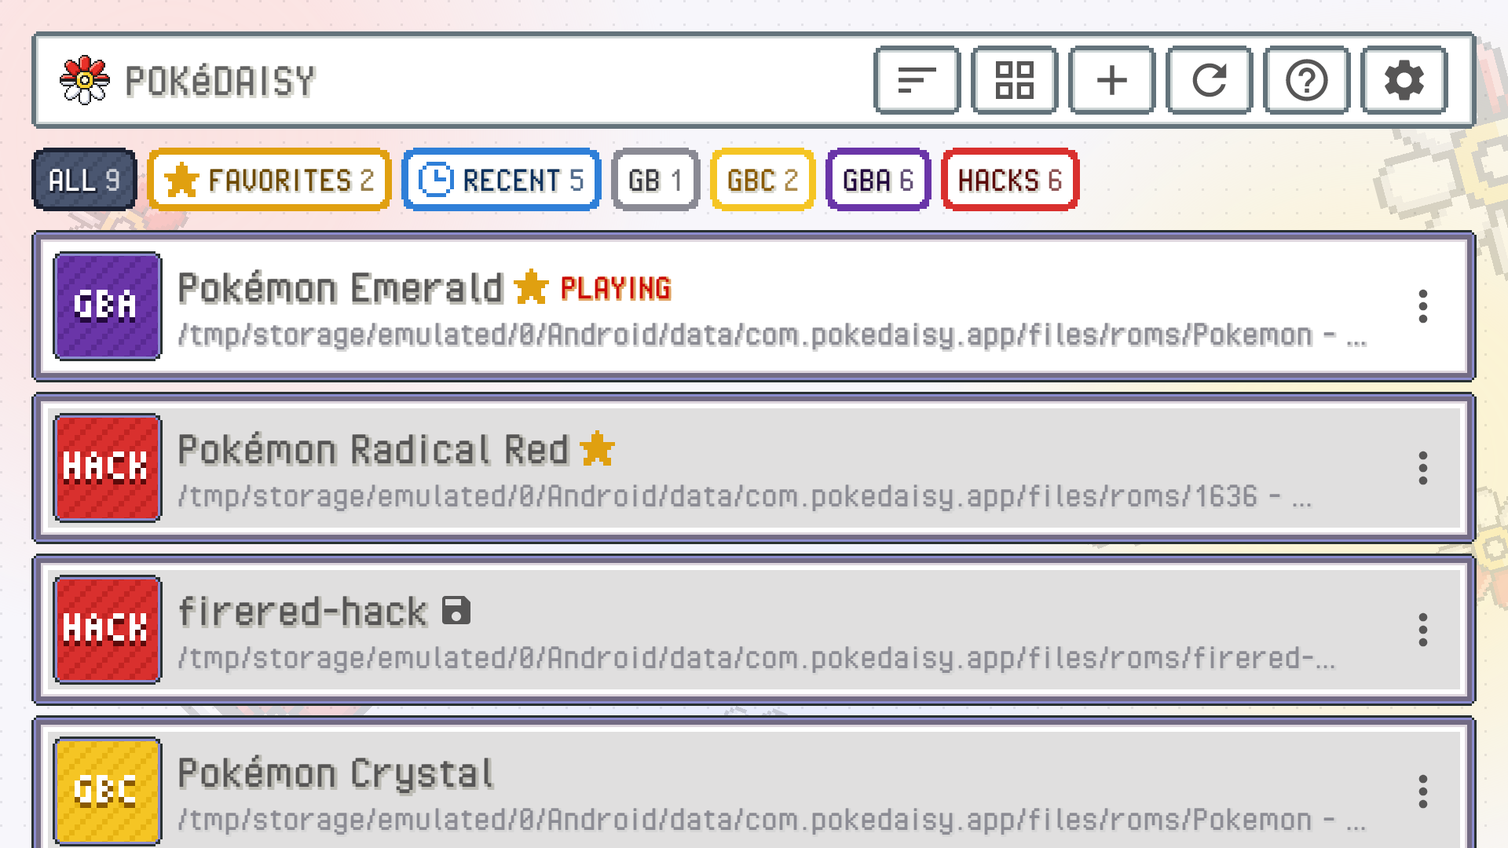
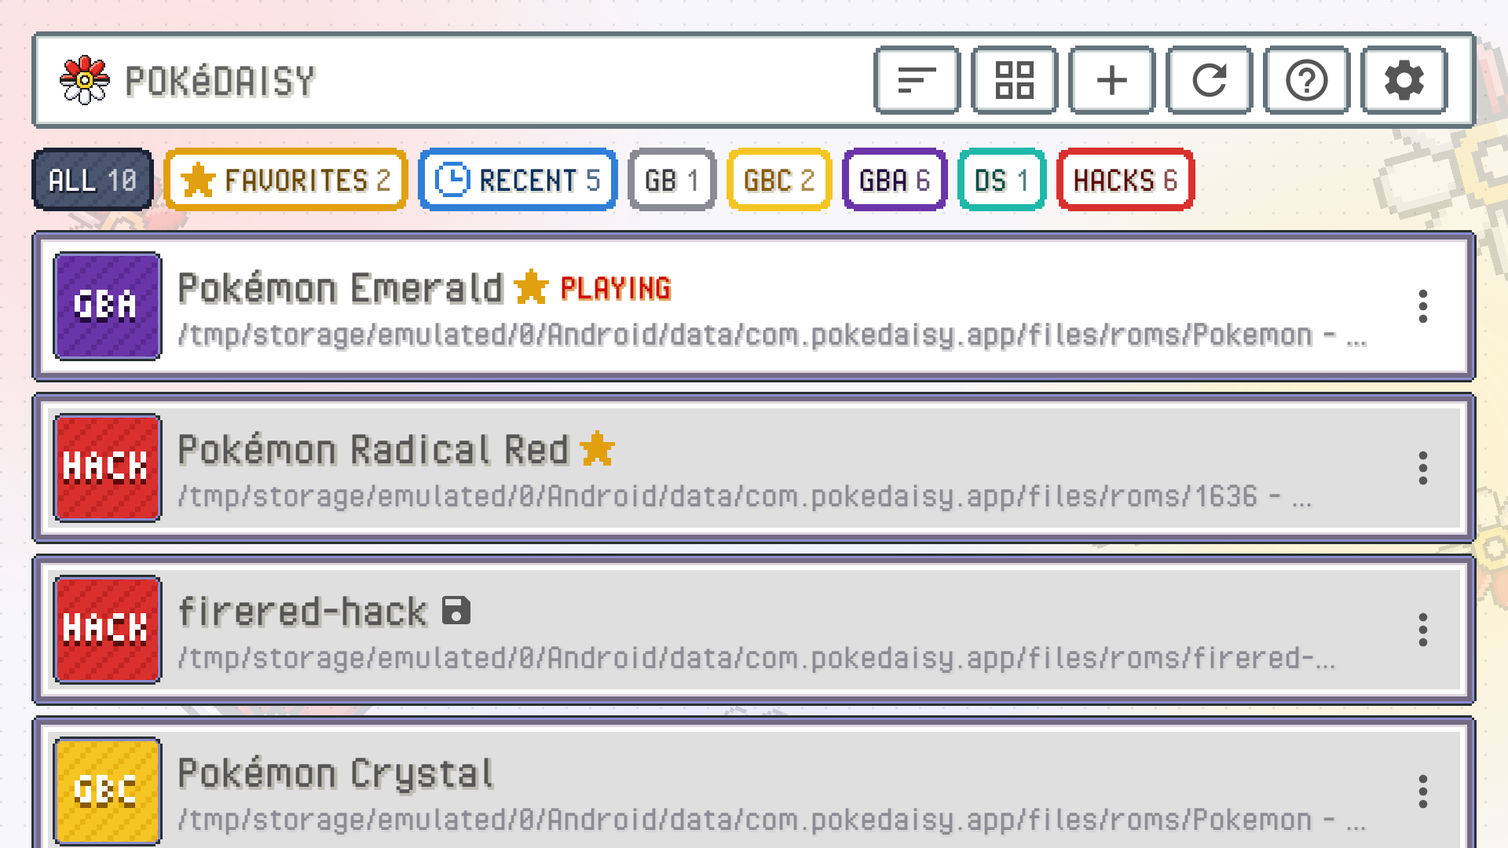
DS games for every player: the flag gone, the site's ROM check, the manual and the credits
- TelemetrySampler.NDS_SUPPORT is a constant now, like the Game Boy's switch, and the
  carts the companion reads are one table (NDS_GAMES); FeatureFlags.nds and its
  BuildConfig field are gone. The manifest's VIEW filter takes .nds.
- Website: the ROM check reads a DS cart's header (code 0x0C, revision 0x1E) against
  compat.json's new `ds` list, as the app does; .nds in the picker and the zip reader. The
  matrix files the GB / GBC rows under GAME BOY (the GBC ones read ROM HACK) and has a DS
  filter; the versions page lists the DS carts. Consoles, the trademark line and "runs on
  mGBA and melonDS" on every page; the games lead is current; og.png re-rendered.
- README: DS in the intro, the Supported games table (Platinum, HeartGold / SoulSilver),
  its notes (one screen shows the top screen only for now), EXPAND, file types; the
  credits gain melonDS and its bundled pieces, Atkinson Hyperlegible, the shaders and the
  decomps used. NOTICE: the decomps behind the Gen 2 / DS decoders, Nintendo DS.
- Manual: DS in welcome, supported games, the library's DS view and NDS cover, and a
  "DS games" section on Screens and devices; the library shots show the DS pill.

Changed region(s): [[0.0625, 0.1528, 0.8125, 0.275]]

diff --git a/ui-preview/src/render/Main.kt b/ui-preview/src/render/Main.kt
@@ -736,15 +736,13 @@ fun favoriteLibrary() {
 }
 
 /**
- * [favoriteLibrary] with a game on every console (Yellow, Crystal, a Crystal hack, Platinum - DS turned on), so every quick
+ * [favoriteLibrary] with a game on every console (Yellow, Crystal, a Crystal hack, Platinum), so every quick
  * view has a pill, and a play history (Emerald last, then Crystal, Unbound, Yellow) for RECENT; [view] open.
  */
-fun platformLibrary(view: com.pokedaisy.app.LibraryView = com.pokedaisy.app.LibraryView.ALL, ds: Boolean = true) {
+fun platformLibrary(view: com.pokedaisy.app.LibraryView = com.pokedaisy.app.LibraryView.ALL) {
     favoriteLibrary()
     val ctx = android.content.Context()
     val prefs = Prefs(ctx)
-    // DS games behind their flag (FeatureFlags.nds): the manual's shots leave them out while it's off for players.
-    if (ds) for (dir in listOfNotNull(ctx.filesDir, ctx.getExternalFilesDir(null))) File(dir, "features").apply { mkdirs() }.resolve("nds").writeText("")
     val roms = File(ctx.filesDir, "roms")
     val extra = mapOf(
         "Pokemon - Yellow Version (USA, Europe).gb" to Triple("Pokémon Yellow", "GB", "GB"),
@@ -849,7 +847,6 @@ fun activity(expandIntro: Boolean = false, start: Boolean = false, make: () -> a
     prefs.cheatsEnabled = false
     prefs.touchControlsStyle = com.pokedaisy.app.companion.TouchControlsStyle()
     prefs.portraitCompanionUnderGame = false
-    for (dir in listOfNotNull(ctx.filesDir, ctx.getExternalFilesDir(null))) File(dir, "features/nds").delete()
     prefs.libraryView = com.pokedaisy.app.LibraryView.ALL.id
     prefs.lastRomPath = File(roms, names[0]).absolutePath
     names.take(3).reversed().forEach { prefs.pushRecentRom(File(roms, it).absolutePath) }
@@ -1537,9 +1534,6 @@ fun main(args: Array<String>) {
         Shot("library-views-gba", tw, th, td, activity { platformLibrary(com.pokedaisy.app.LibraryView.GBA); LibraryActivity() }),
         Shot("library-views-ds", tw, th, td, activity { platformLibrary(com.pokedaisy.app.LibraryView.DS); LibraryActivity() }),
         Shot("library-views-hacks", tw, th, td, activity { platformLibrary(com.pokedaisy.app.LibraryView.HACKS); LibraryActivity() }),
-        // The manual's (DocsShots): no DS game, as players have it while DS is behind its flag.
-        Shot("library-views-nods", tw, th, td, activity { platformLibrary(ds = false); LibraryActivity() }),
-        Shot("library-views-gbc-nods", tw, th, td, activity { platformLibrary(com.pokedaisy.app.LibraryView.GBC, ds = false); LibraryActivity() }),
         Shot("library-views-phone", 1080, 2400, 2.625f, activity { platformLibrary(com.pokedaisy.app.LibraryView.GBA); LibraryActivity() }) {
             mainClock.advanceTimeBy(500)   // the open pill scrolled into view
         },

diff --git a/app/src/test/kotlin/com/pokedaisy/app/SiteDataExportTest.kt b/app/src/test/kotlin/com/pokedaisy/app/SiteDataExportTest.kt
@@ -33,6 +33,9 @@ class SiteDataExportTest {
         "BPEJ" to "ポケットモンスター エメラルド",
     )
 
+    /** The DS carts' titles by game code ([TelemetrySampler.NDS_GAMES]). */
+    private val dsTitles = mapOf("CPUE" to "Pokémon Platinum", "IPKE" to "Pokémon HeartGold", "IPGE" to "Pokémon SoulSilver")
+
     /** The base game of each hack that has a game code of its own ([TelemetrySampler.HACK_GAME_CODES]). */
     private val hackCodeBases = mapOf(TelemetrySampler.ULTRA_VIOLET_CODE to "BPRE")
 
@@ -84,7 +87,8 @@ class SiteDataExportTest {
             .sortedWith(compareBy({ it.second }, { it.third }))
             .partition { it.second in inProgressGames }
         val gameBoy = if (TelemetrySampler.GAME_BOY_SUPPORT) TelemetrySampler.SUPPORTED_GB_SHA1S.sorted() else emptyList()
-        // DS carts stay off the site while DS is behind its feature flag (the site lists only what the APK plays).
+        val ds = if (TelemetrySampler.NDS_SUPPORT) TelemetrySampler.NDS_GAMES.toSortedMap().toList() else emptyList()
+        // DS carts go by their header's code and revision (`ds`), as the app takes them, not by hash.
         val titles = GameTitles.BY_SHA1.filterKeys { it !in hackSha1s && it !in gameBoy && it !in GameTitles.NDS_SHA1S }.toSortedMap()
 
         return buildString {
@@ -117,6 +121,9 @@ class SiteDataExportTest {
             append("  \"gameBoy\": [\n")
             append(gameBoy.joinToString(",\n") { "    {\"sha1\": ${q(it)}, \"title\": ${q(GameTitles.BY_SHA1.getValue(it))}}" })
             append("\n  ],\n")
+            append("  \"ds\": [\n")
+            append(ds.joinToString(",\n") { (code, rev) -> "    {\"code\": ${q(code)}, \"rev\": $rev, \"title\": ${q(dsTitles.getValue(code))}}" })
+            append("\n  ],\n")
             append("  \"titles\": {\n")
             append(titles.entries.joinToString(",\n") { (sha1, title) -> "    ${q(sha1)}: ${q(title)}" })
             append("\n  },\n")
@@ -147,6 +154,11 @@ class SiteDataExportTest {
         assertTrue("no *_V<version>_SHA1 constant for $missing", missing.isEmpty())
         assertEquals("v2.2.1-EX", hackVersions[TelemetrySampler.EMERALD_ROGUE_V2_2_1_EX_SHA1])
         assertEquals("v1.2b", hackVersions[TelemetrySampler.SOULGOLD_V1_2B_SHA1])
+    }
+
+    @Test
+    fun `every DS cart has a title`() {
+        assertEquals(TelemetrySampler.NDS_GAMES.keys, dsTitles.keys)
     }
 
     @Test

diff --git a/website/src/lib/compat.js b/website/src/lib/compat.js
@@ -5,12 +5,18 @@
 // Pure functions over bytes: the page reads the file, nothing is uploaded.
 
 const GB_LOGO_START = [0xce, 0xed, 0x66, 0x66];
-export const ROM_EXTENSIONS = ['.gba', '.gb', '.gbc'];
+export const ROM_EXTENSIONS = ['.gba', '.gb', '.gbc', '.nds'];
 
-/** What the cart header says: platform, game code (0xAC) and revision (0xBC) for a GBA ROM. */
+/**
+ * What the cart header says: platform, game code (0xAC) and revision (0xBC) for a GBA ROM, game code (0x0C) and
+ * revision (0x1E) for a DS one (its logo's checksum 0xCF56 at 0x15C: RomIdentity.isNds). Checked in the app's order.
+ */
 export function readHeader(bytes) {
   if (bytes.length >= 0x108 && GB_LOGO_START.every((b, i) => bytes[0x104 + i] === b)) {
     return { platform: 'gb' };
+  }
+  if (bytes.length >= 0x160 && bytes[0x15c] === 0x56 && bytes[0x15d] === 0xcf) {
+    return { platform: 'nds', code: String.fromCharCode(...bytes.subarray(0x0c, 0x10)), rev: bytes[0x1e] };
   }
   if (bytes.length < 0xc0) return { platform: null };
   const code = String.fromCharCode(...bytes.subarray(0xac, 0xb0));
@@ -47,6 +53,14 @@ export function verdict(data, { platform, code, rev, size, sha1, retailOf }) {
       ? { status: 'supported', title: hit.title, family: 'Game Boy' }
       : { status: 'unsupported', reason: 'gb' };
   }
+  if (platform === 'nds') {
+    // By the header's code and revision, as the app takes a DS cart (CompanionSupport.isSupported).
+    const hit = (data.ds ?? []).find((g) => g.code === code);
+    if (!hit) return { status: 'unsupported', reason: 'ds' };
+    return hit.rev === rev
+      ? { status: 'supported', title: hit.title, family: 'Nintendo DS' }
+      : { status: 'unsupported', reason: 'revision', base: hit.title };
+  }
   if (platform !== 'gba') return { status: 'unsupported', reason: 'not-a-rom' };
 
   const retail = data.retail.find((r) => r.code === code);
@@ -73,7 +87,7 @@ export function verdict(data, { platform, code, rev, size, sha1, retailOf }) {
 }
 
 /**
- * The ROM inside a .zip (the first .gba / .gb / .gbc entry), unpacked with the browser's
+ * The ROM inside a .zip (the first .gba / .gb / .gbc / .nds entry), unpacked with the browser's
  * own DecompressionStream. Returns { name, bytes } or null when there's none.
  */
 export async function unzipRom(zip) {

diff --git a/app/src/main/kotlin/com/pokedaisy/app/companion/data/Poller.kt b/app/src/main/kotlin/com/pokedaisy/app/companion/data/Poller.kt
@@ -1003,17 +1003,19 @@ class TelemetrySampler {
         const val GAME_BOY_SUPPORT = true
 
         /**
-         * Nintendo DS (Platinum first, on melonDS): the library, folder scan, frontend launch and archives take .nds
-         * and a known cart is read by the Gen 4 reader. Set from [com.pokedaisy.app.FeatureFlags.nds] at process and
-         * library start; off, a DS cart is never listed.
+         * Nintendo DS (on melonDS): the library, folder scan, frontend launch and archives take .nds and a known cart
+         * ([NDS_GAMES]) is read by the Gen 4 reader. False turns all of it off again (then drop the manifest's .nds
+         * VIEW pattern too): a DS cart is then never listed.
          */
-        @Volatile var NDS_SUPPORT = false
+        const val NDS_SUPPORT = true
 
-        /** A DS cart the companion reads, by its header's game code and revision (0x0C / 0x1E): Platinum USA rev 1,
-         * HeartGold / SoulSilver USA (rev 0, their only one). [detectDs] and the library's
-         * [com.pokedaisy.app.CompanionSupport] both ask this. */
-        fun ndsSupported(code: String?, revision: Int?): Boolean = NDS_SUPPORT &&
-            (code == "CPUE" && revision == 1 || (code == "IPKE" || code == "IPGE") && revision == 0)
+        /** The DS carts the companion reads, by their header's game code (0x0C) and revision (0x1E): Platinum USA rev 1,
+         * HeartGold / SoulSilver USA (rev 0, their only one). The website's ROM check gets them through compat.json. */
+        val NDS_GAMES = mapOf("CPUE" to 1, "IPKE" to 0, "IPGE" to 0)
+
+        /** [detectDs] and the library's [com.pokedaisy.app.CompanionSupport] both ask this. */
+        fun ndsSupported(code: String?, revision: Int?): Boolean =
+            NDS_SUPPORT && revision != null && NDS_GAMES[code] == revision
 
         /** Every hack detect() has RAM addresses for - the >16 MB ones it
          * hashes, plus Seaglass, Emerald Kaizo, Emerald Legacy, Orange Islands, Recharged Yellow / Emerald and Ultra Violet (16 MB). [CompanionSupport] checks imports against it. */

diff --git a/website/test/compat.test.js b/website/test/compat.test.js
@@ -51,6 +51,24 @@ test('other retail games: revisions and size', () => {
   assert.equal(v('AGBJ', 0, 4 * MB).reason, 'other-game');
 });
 
+function nds(code, rev = 0) {
+  const b = new Uint8Array(0x200);
+  b.set([...code].map((c) => c.charCodeAt(0)), 0x0c);
+  b[0x1e] = rev;
+  b.set([0x56, 0xcf], 0x15c);
+  return b;
+}
+
+test('DS: Platinum rev 1, HeartGold / SoulSilver, by the header', () => {
+  assert.deepEqual(readHeader(nds('CPUE', 1)), { platform: 'nds', code: 'CPUE', rev: 1 });
+  const ds = (code, rev) => verdict(data, { ...readHeader(nds(code, rev)), size: 128 * MB, sha1: '0'.repeat(40) });
+  assert.deepEqual(ds('CPUE', 1), { status: 'supported', title: 'Pokémon Platinum', family: 'Nintendo DS' });
+  assert.deepEqual(ds('CPUE', 0), { status: 'unsupported', reason: 'revision', base: 'Pokémon Platinum' });
+  assert.equal(ds('IPKE', 0).title, 'Pokémon HeartGold');
+  assert.equal(ds('IPGE', 0).title, 'Pokémon SoulSilver');
+  assert.equal(ds('ADAE', 0).reason, 'ds');
+});
+
 test('Game Boy: Yellow only', () => {
   assert.equal(verdict(data, { platform: 'gb', sha1: 'cc7d03262ebfaf2f06772c1a480c7d9d5f4a38e1' }).title, 'Pokémon Yellow');
   assert.equal(verdict(data, { platform: 'gb', sha1: '0'.repeat(40) }).reason, 'gb');

diff --git a/ui-preview/src/render/DocsShots.kt b/ui-preview/src/render/DocsShots.kt
@@ -253,7 +253,7 @@ fun docsShots(all: List<Shot>, bw: Int, bh: Int, bd: Float, tw: Int, th: Int, td
     val help = installDocsSource()
     // Main.kt's top-screen shots the docs reuse: its name -> the docs' name.
     val reuse = linkedMapOf(
-        "library-views-nods" to "library-list", "library-views-gbc-nods" to "library-views", "library-grid" to "library-grid", "library-list-menu" to "library-menu",
+        "library-views" to "library-list", "library-views-gbc" to "library-views", "library-grid" to "library-grid", "library-list-menu" to "library-menu",
         "library-info" to "library-info", "library-sort" to "library-sort", "library-cover-picker" to "library-cover-picker",
         "library-update" to "library-update", "library-list-phone" to "phone-library",
         "setup-roms" to "setup-roms", "setup-saves" to "setup-saves", "setup-buttons" to "setup-buttons", "setup-covers" to "setup-covers",

diff --git a/app/src/main/kotlin/com/pokedaisy/app/FeatureFlags.kt b/app/src/main/kotlin/com/pokedaisy/app/FeatureFlags.kt
@@ -24,13 +24,6 @@ object FeatureFlags {
      */
     fun screenScraper(context: Context): Boolean = BuildConfig.FEATURE_SCREENSCRAPER || marker(context, "screenscraper")
 
-    /**
-     * Nintendo DS games (nds/pk_nds.cpp, melonDS): `.nds` files in the library and the frontend entry, played on the
-     * DS core. Off until DS support is ready for players; marker `nds`. Read into [TelemetrySampler.NDS_SUPPORT] when
-     * the process and the library start.
-     */
-    fun nds(context: Context): Boolean = BuildConfig.FEATURE_NDS || marker(context, "nds")
-
     private fun marker(context: Context, name: String): Boolean =
         runCatching { File(File(context.getExternalFilesDir(null) ?: context.filesDir, "features"), name).isFile }.getOrDefault(false)
 }

diff --git a/app/src/main/kotlin/com/pokedaisy/app/PokeDaisyApp.kt b/app/src/main/kotlin/com/pokedaisy/app/PokeDaisyApp.kt
@@ -12,7 +12,6 @@ class PokeDaisyApp : Application() {
         prefs.appOpenCount = (prefs.appOpenCount + 1).coerceAtMost(1000)
         CrashReports.apply(prefs.crashReportsEnabled)
         ScreenScraperClient.enabled = FeatureFlags.screenScraper(this)
-        com.pokedaisy.app.companion.data.TelemetrySampler.NDS_SUPPORT = FeatureFlags.nds(this)
         // LIGHT COMPANION: the player's pick, and AUTO's verdict (a device that looks weak, or whose buttons came late before).
         com.pokedaisy.app.companion.LightCompanion.mode = com.pokedaisy.app.companion.LightCompanionMode.of(prefs.lightCompanion)
         com.pokedaisy.app.companion.LightCompanion.deviceWeak = prefs.lightCompanionMeasured || DevicePerformance.looksWeak(this)

diff --git a/app/src/main/kotlin/com/pokedaisy/app/GameTitles.kt b/app/src/main/kotlin/com/pokedaisy/app/GameTitles.kt
@@ -25,7 +25,7 @@ object GameTitles {
     val BY_SHA1: Map<String, String> by lazy { RETAIL + HACKS + RETAIL_PORT_TITLES }
 
     /** Retail carts (the library's GBA / GB / GBC tag when a game has no cover: [RomCategory]). */
-    /** The DS carts [BY_SHA1] names (behind FeatureFlags.nds: the website leaves them out until DS ships). */
+    /** The DS carts [BY_SHA1] names (the website's ROM check reads DS carts by their header: compat.json's `ds`). */
     internal val NDS_SHA1S = setOf(
         "0862ec35b24de5c7e2dcb88c9eea0873110d755c", "4fcded0e2713dc03929845de631d0932ea2b5a37", "f8dc38ea20c17541a43b58c5e6d18c1732c7e582",
     )

diff --git a/app/src/main/kotlin/com/pokedaisy/app/LibraryActivity.kt b/app/src/main/kotlin/com/pokedaisy/app/LibraryActivity.kt
@@ -300,7 +300,6 @@ class LibraryActivity : ComponentActivity() {
 
         // The device's marker can change between visits (FeatureFlags): read before setup builds its steps.
         ScreenScraperClient.enabled = FeatureFlags.screenScraper(this)
-        com.pokedaisy.app.companion.data.TelemetrySampler.NDS_SUPPORT = FeatureFlags.nds(this)
         sort = LibrarySort.of(prefs.librarySort)
         quickView = LibraryView.of(prefs.libraryView)
         // The second screen (and so SWAP) is the game's media page: ScreenScraper's, off until its flag is on.

diff --git a/ui-preview/src/shims/BuildConfig.kt b/ui-preview/src/shims/BuildConfig.kt
@@ -10,6 +10,4 @@ object BuildConfig {
     const val FEATURE_SAVE_EDITOR = false
     /** Off as in a default build; the ScreenScraper shots turn it on (`withScreenScraper`). */
     @JvmField var FEATURE_SCREENSCRAPER = false
-    /** DS games (melonDS): off, as in a default build. */
-    const val FEATURE_NDS = false
 }

diff --git a/README.md b/README.md
@@ -1,6 +1,6 @@
 <div align="center">
 
-<img src="https://pokedaisy.com/og.png" alt="PokeDaisy: Game Boy, Game Boy Color and GBA player with a live companion, on two screens or one, for Pokemon games and ROM hacks, free and open source" width="100%">
+<img src="https://pokedaisy.com/og.png" alt="PokeDaisy: Game Boy, Game Boy Color, GBA and DS player with a live companion, on two screens or one, for Pokemon games and ROM hacks, free and open source" width="100%">
 
 <h3>Play your Pokemon games. See everything about them on your second screen, or right beside the game.</h3>
 
@@ -23,9 +23,9 @@
 
 </div>
 
-PokeDaisy is a Game Boy, Game Boy Color and GBA player for Android handhelds with two screens or one,
-made for Pokemon FireRed, LeafGreen, Emerald, Ruby, Sapphire, Red, Blue, Yellow, Gold, Silver, Crystal
-and popular ROM hacks of every generation. Next to the game runs a live companion that reads it as you
+PokeDaisy is a Game Boy, Game Boy Color, GBA and Nintendo DS player for Android handhelds with two screens or one,
+made for Pokemon FireRed, LeafGreen, Emerald, Ruby, Sapphire, Red, Blue, Yellow, Gold, Silver, Crystal, Platinum,
+HeartGold, SoulSilver and popular ROM hacks of every generation. Next to the game runs a live companion that reads it as you
 play: your party, your bag, the map, battle matchups, your Pokedex, and a spoiler-free guide.
 Everything is drawn in the game's own menu style.
 
@@ -35,6 +35,8 @@ Everything is drawn in the game's own menu style.
   game screen. The **quick menu**, one button away, opens your PC, flies, rides your bike or fishes, and
   **battle buttons** fight, switch or run right beside the battle.
 - **A phone and a TV**: cast or plug in a TV and the game goes on the big screen, the companion stays in your hand.
+- **DS games** (Platinum, HeartGold, SoulSilver): on a two-screen handheld the DS's touch screen goes on the bottom
+  screen, and one tap there swaps it for the companion and back. The companion also opens over the game, like on one screen.
 
 ## Devices
 
@@ -184,7 +186,8 @@ under LANGUAGE in either Settings screen. Species, move and item names and the G
   Sapphire, every language and revision, plus Unbound, Radical Red, Lazarus, SoulGold, Heart and Soul, Gaia, Odyssey,
   Amethyst 1.3.0, Glazed, Seaglass, Emerald Imperium, Emerald Rogue, Too Many Types 2, Recharged Yellow, Super Mariomon,
   Ultra Violet, FireRed Rocket Edition, Ash Gray, Ghost Grey, Elite Redux, Sword and Shield Ultimate Plus, GS Chronicles and
-  Celia's hack; on the Game Boy, Pokémon Yellow, English, and Crystal, their field only).
+  Celia's hack; on the Game Boy, Pokémon Yellow, English, and Crystal, their field only; on the DS, Platinum, HeartGold
+  and SoulSilver, their 3D overworld drawn past the screen's edges and their battles too).
   The extra strips are rebuilt every frame from the game's own map, tiles and sprites. Battles are wide too: their
   scenery runs on past the edges and the battlers, trainers and healthboxes slide in from off screen. Fog, ash and rain
   reach the screen's edges, and dark caves stay dark around Flash's light. On the title
@@ -224,7 +227,7 @@ under LANGUAGE in either Settings screen. Species, move and item names and the G
   when you last played it and whether it has a save. **X** swaps
   the screens (animated), **A** opens the game, **B** its options, **Y** Settings - a legend in the corner shows them.
   Settings > DUAL-SCREEN LAUNCHER turns it off.
-- ROMs can be plain `.gba`, `.gb` or `.gbc` files or zipped (`.zip` / `.7z`), in your ROMs folder or imported with **+**.
+- ROMs can be plain `.gba`, `.gb`, `.gbc` or `.nds` files or zipped (`.zip` / `.7z`), in your ROMs folder or imported with **+**.
 - **Refresh** rescans your ROMs folder and tells you what it found.
 - Long-press a game to:
   - **Rename** or **hide** it.
@@ -266,7 +269,7 @@ is left alone.
 
 ## Supported games
 
-Any Game Boy, Game Boy Color or GBA game plays. The companion needs one of the games below, **in the exact
+Any Game Boy, Game Boy Color, GBA or DS game plays. The companion needs one of the games below, **in the exact
 version listed** (ROM hacks are recognized by their file, so another version
 shows a "not supported" notice).
 
@@ -292,6 +295,8 @@ shows a "not supported" notice).
 | Ruby                           | ES/DE/FR/IT/JP, rev 0-1    |  ✅   | ✅  |   ◐    | ✅  |   ✅    |  ✅   |
 | Sapphire                       | USA, rev 0, 1 and 2        |  ✅   | ✅  |   ◐    | ✅  |   ✅    |  ✅   |
 | Sapphire                       | ES/DE/FR/IT/JP, rev 0-1    |  ✅   | ✅  |   ◐    | ✅  |   ✅    |  ✅   |
+| Platinum (DS)                  | USA rev 1                  |  ✅   | ✅  |   ◐    | ✅  |   ✅    |  ✅   |
+| HeartGold / SoulSilver (DS)    | USA                        |  ✅   | ✅  |   —    | ✅  |   ✅    |  ✅   |
 | Unbound                        | 2.1.1.1                    |  ✅   | ✅  |   ◐    | ✅  |   ✅    |  ✅   |
 | Unbound                        | 2.1.1.1 French             |  ✅   | ✅  |   ◐    | ✅  |   ✅    |  ✅   |
 | Radical Red                    | 4.1                        |  ✅   | ✅  |   ◐    | ✅  |   ✅    |  ✅   |
@@ -336,6 +341,10 @@ French, Italian and Spanish Yellows show their own names, Pokédex pages and bat
 shows its own Pokémon, moves, types, six town maps and its own Pokédex (its 253 in the game's order). Polished
 Crystal shows its own Pokémon (regional forms included), moves, types, items, its Johto, Kanto and Orange Islands maps and
 its 289 in National order; its faithful builds keep the original games' types and moves, as the game does.
+Platinum, HeartGold and SoulSilver are the DS games the companion reads, in the USA release listed (Platinum's
+revision 1); their pictures, Pokédex pages and maps come from your cart. Platinum's battles show in the BATTLE tab,
+HeartGold's and SoulSilver's not yet, and on the DS the battle buttons don't press the game's menus yet. On a
+one-screen device a DS game shows its top screen; the touch screen needs a second screen for now.
 Map ◐ means place names
 only, without the map picture. Guide ◐ means the live pages only (the wild encounters here and the next
 boss), without the area lists. Battle ◐ means the battle panes work but haven't
@@ -394,14 +403,24 @@ runs and ask questions on [r/PokeDaisy](https://www.reddit.com/r/PokeDaisy/).
 ## Credits
 
 <details>
-<summary>mGBA, rcheevos, fonts, the pret decomps, cover art sources</summary>
+<summary>mGBA, melonDS, rcheevos, fonts, shaders, the pret decomps, cover art sources</summary>
 
-- [mGBA](https://mgba.io) by Vicki Pfau (endrift) and contributors runs the games (MPL 2.0;
+- [mGBA](https://mgba.io) by Vicki Pfau (endrift) and contributors runs the Game Boy, Game Boy Color and GBA games (MPL 2.0;
   source in [`third_party/mgba`](https://github.com/mgba-emu/mgba)), with its bundled blip_buf (LGPL 2.1) and inih (BSD).
+- [melonDS](https://melonds.kuribo64.net) by the melonDS team runs the DS games (GPL 3.0; source in
+  [`third_party/melonds`](https://github.com/melonDS-emu/melonDS), PokeDaisy's changes in
+  [`third_party/patches`](third_party/patches)), with its bundled FatFs, Teakra (MIT), xxHash (BSD 2-Clause),
+  tiny-AES-c (Unlicense), blip_buf (LGPL 2.1) and Dolphin's ARM64 emitter (GPL 2.0+).
 - [rcheevos](https://github.com/RetroAchievements/rcheevos) by RetroAchievements.org (MIT) for achievements.
-- [Pixel Operator](https://www.dafont.com/pixel-operator.font) font by Jayvee Enaguas (CC0).
+- [Pixel Operator](https://www.dafont.com/pixel-operator.font) font by Jayvee Enaguas (CC0), and
+  [Atkinson Hyperlegible](https://www.brailleinstitute.org/freefont/) by the Braille Institute (OFL 1.1) for the manual's text.
 - [PixelMplus](https://github.com/itouhiro/PixelMplus) (M+ FONT LICENSE, M+ FONTS PROJECT) for Japanese text, converted to Pixel Operator's pixel grid by `scripts/gen_jp_font.py`.
-- The [pret](https://github.com/pret) decompilation projects and [pokeemerald-expansion](https://github.com/rh-hideout/pokeemerald-expansion), which the game data and guides were checked against.
+- The [pret](https://github.com/pret) decompilation projects (pokered, pokeyellow, pokegold, pokecrystal, pokefirered,
+  pokeemerald, pokeruby, pokeplatinum, pokeheartgold), [pokeemerald-expansion](https://github.com/rh-hideout/pokeemerald-expansion)
+  and [Polished Crystal](https://github.com/Rangi42/polishedcrystal)'s source, which the game data and guides were checked against.
+- Screen shaders: LCD and scanlines from mGBA's (MIT), the GBA colours by Pokefan531 and hunterk, LCD PAPER after
+  RetroArch's simpletex_lcd and zfast_lcd (GPL 2.0+), and libretro's xBR, xBRZ and ScaleFX for edge smoothing
+  (MIT, xBRZ GPL 3.0).
 - [PokeAPI](https://pokeapi.co) (BSD 3-Clause) for the National Dex species list.
 - AndroidX, Jetpack Compose, Kotlin and Apache Commons Compress (Apache 2.0), XZ for Java (0BSD).
 
